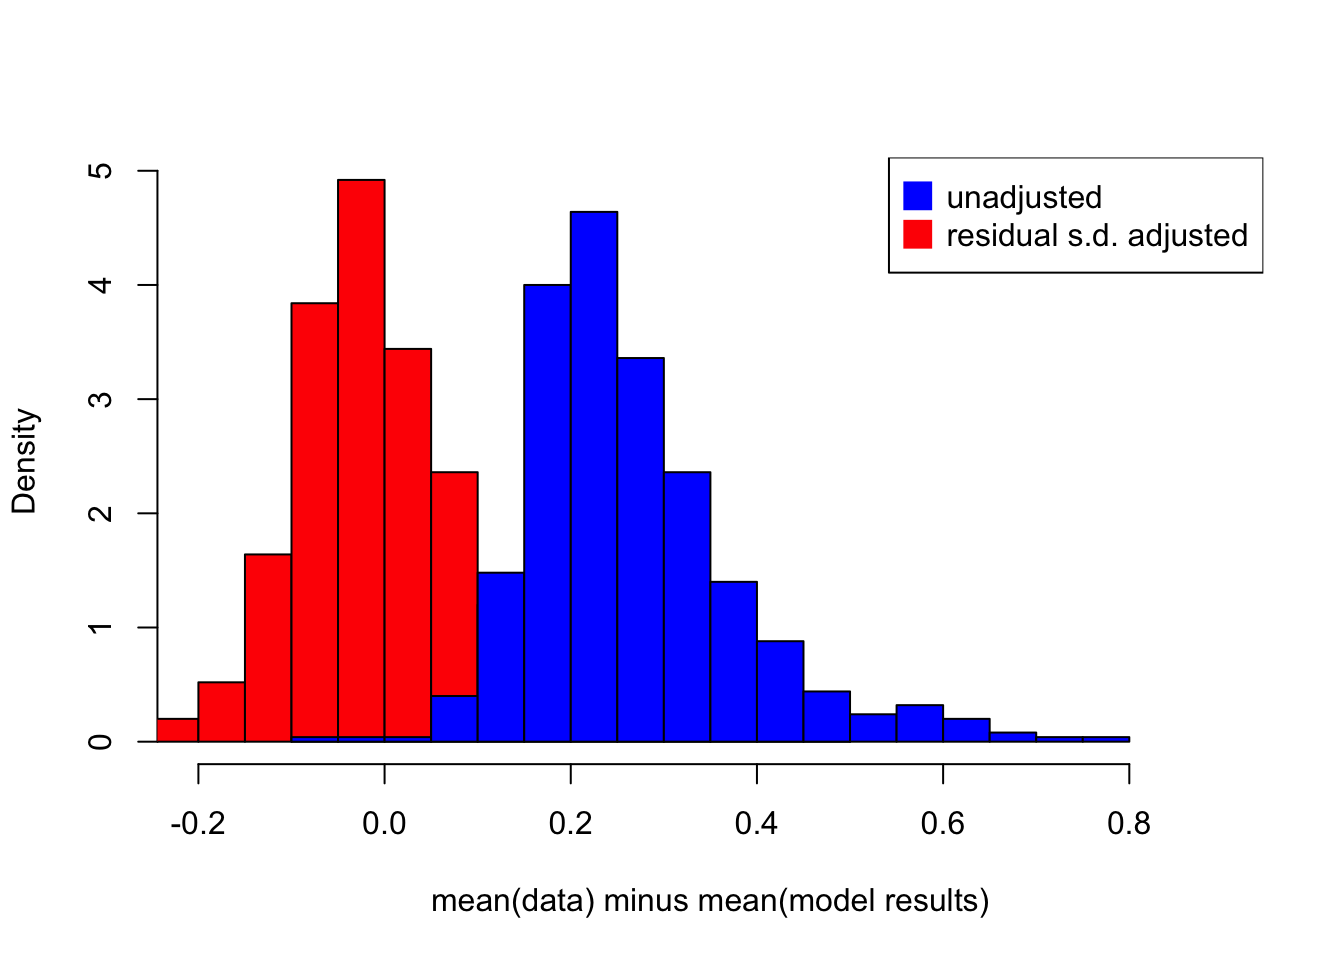
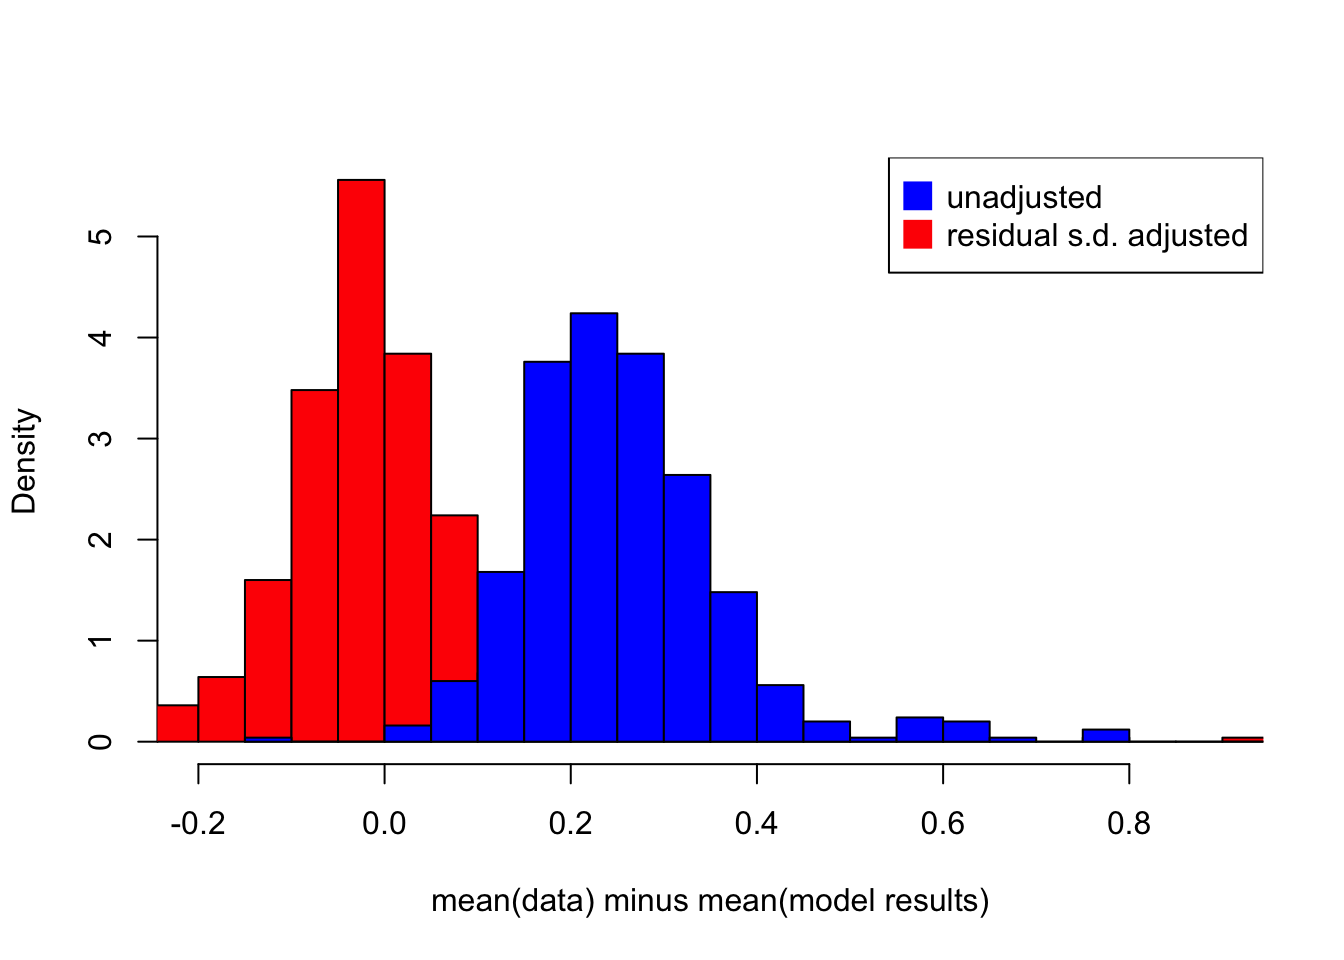
improve jensen

diff --git a/JensenIneq.html b/JensenIneq.html
@@ -474,16 +474,20 @@ legend(&#39;topright&#39;, legend = c(&#39;unadjusted&#39;,&#39;residual s.d. ad
 <h3 id="example---probabilities">Example - Probabilities</h3>
 </ins>
 </div>
+<p>Assuming a probability function follows: <span class="math display">\[ p = \frac{1}{e^{-(\alpha + x\beta + \epsilon)}} \]</span></p>
+<p>In other words, the log-odd ratio can be modelled by linear regression: <span class="math display">\[ log(\frac{p}{1-p}) = \alpha + x\beta + \epsilon \]</span></p>
+<p>Then, when we observed data p, we can transform to the log-odds ratio and perform the linear regression to estimate <span class="math inline">\(\alpha\)</span> and <span class="math inline">\(\beta\)</span>. However, the best estimates of <span class="math inline">\(\alpha\)</span> and <span class="math inline">\(\beta\)</span> will give biased estimates of the probability <span class="math inline">\(p\)</span> as:</p>
+<p><span class="math display">\[E[p] = E[\frac{1}{1+e^{-(\alpha + x\beta + \epsilon)}}] \neq \frac{1}{1+e^{-E[\alpha+x \beta+\epsilon]}}\]</span></p>
 <pre class="r"><code>library(Rlab)
 library(sqldf)
 alpha &lt;- 2
 beta &lt;- 3.5
-n = 100
+n = 150
 m = 500
 variables &lt;- data.frame(matrix(NA, nrow = n*m, ncol = 1))
 colnames(variables) &lt;- &#39;x1&#39;
 for(i in 1:n) {
-  x1 &lt;- rep(rnorm(1,0,1),n)
+  x1 &lt;- rep(rnorm(1,0,1),m)
   e &lt;- rnorm(m,0,3)
   logOdds &lt;- alpha + beta*x1+e
   variables$x1[(1+m*(i-1)):(i*m)] &lt;- x1
@@ -491,15 +495,32 @@ for(i in 1:n) {
   variables$logOdds[(1+m*(i-1)):(i*m)] &lt;- logOdds
   variables$p[(1+m*(i-1)):(i*m)] &lt;- exp(logOdds)/(1+exp(logOdds))
 }
-
 lm_logOdds &lt;- lm(logOdds~x1, data = variables)
 variables$model_p &lt;- exp(lm_logOdds$fitted.values)/(1+exp(lm_logOdds$fitted.values))
 
 groups &lt;- sqldf(&quot;select x1, avg(p), avg(model_p) from variables group by 1&quot;)
 
-plot(x = groups$x1, y = groups$`avg(p)`)
-points(x = groups$x1, y = groups$`avg(model_p)`, col = &#39;red&#39;)</code></pre>
+plot(x = groups$x1, y = groups$`avg(p)`, ylab = &quot;probability estimate&quot;, xlab=&quot;x1&quot;)
+points(x = groups$x1, y = groups$`avg(model_p)`, col = &#39;red&#39;)
+legend(x=1,y=0.2,c(&quot;E[P|X1]&quot;,&quot;1/(1+E[logOdds|X1])&quot;),cex=.8,col=c(&quot;black&quot;,&quot;red&quot;),pch=c(1,1))</code></pre>
 <p><img src="JensenIneq_files/figure-html/unnamed-chunk-2-1.png" width="672" /></p>
+<p>Now we know they are different, but how can we adjust it? For example, given the first obervation <span class="math inline">\(x_1 = c\)</span>, how do we correctly forecast the <span class="math inline">\(p\)</span> using the estimated parameters?</p>
+<p><span class="math display">\[
+\begin{aligned}
+E[P|x=c] &amp;=  E[\frac{1}{1+e^{-(\alpha + x\beta + \epsilon)}}|x=c]\\
+ &amp;= \int \frac{1}{1+e^{\alpha+\beta c + \epsilon}} \frac{1}{\sqrt{\sigma}\sqrt{2\pi}} \cdot e^{\frac{1}{2}(\frac{x}{\sqrt{\sigma}})^2} dx \\
+\end{aligned}
+\]</span></p>
+<p>To solve this analytically seems difficulty if not impossible (at least for me…). So, here I would like to do a simulation to estimate it.</p>
+<pre><code>## Given x = c = 1.04487026824233</code></pre>
+<pre><code>## E[P|x=c]: 0.953831120196396</code></pre>
+<pre><code>## 1/(1+E[logOdds|x=c]): 0.996539266519576</code></pre>
+<pre class="r"><code>sigma &lt;- sd(variables$e)
+c &lt;- variables$x1[1]
+sim_e &lt;- rnorm(1000,0,sigma)
+p_adjusted &lt;- mean(1/(1+exp(-alpha-beta*c-sim_e)))
+cat(paste0(&quot;With the estimated alpha, beta and sd(e), the probability p can estimated by simulation:&quot;,p_adjusted))</code></pre>
+<pre><code>## With the estimated alpha, beta and sd(e), the probability p can estimated by simulation:0.953910546410715</code></pre>
 <div style="background-color:white;color:blue;matrixOperation:20px;">
 <ins>
 <h3 id="example---logistic-regression">Example - Logistic Regression</h3>
@@ -584,16 +605,16 @@ plot(x = groups$x1, y = groups$`avg(model_p)`, ylim = c(0,1), xlab = &#39;x1&#39
 lines(x = groups$x1, y = groups$`avg(p)`, col = &#39;green&#39;)
 points(x = groups$x1, y = groups$`avg(E_p)`, col = &#39;red&#39;)
 points(x = groups$x1, y = groups$`avg(p_E)`, col = &#39;blue&#39;)</code></pre>
-<p><img src="JensenIneq_files/figure-html/unnamed-chunk-3-1.png" width="672" /></p>
+<p><img src="JensenIneq_files/figure-html/unnamed-chunk-6-1.png" width="672" /></p>
 <pre class="r"><code>print(glm_sim$coefficients)</code></pre>
 <pre><code>## (Intercept)          x1 
-##  -0.4501502   1.8746231</code></pre>
+##  -0.4782511   1.9337328</code></pre>
 <pre class="r"><code>plot(x = groups$x1, y = groups$`avg(model_p_f)`, ylim = c(0,1), xlab = &#39;x1&#39;, ylab = &#39;&#39;)
 lines(x = groups$x1, y = groups$`avg(p_f)`, col = &#39;brown&#39;)</code></pre>
-<p><img src="JensenIneq_files/figure-html/unnamed-chunk-4-1.png" width="672" /></p>
+<p><img src="JensenIneq_files/figure-html/unnamed-chunk-7-1.png" width="672" /></p>
 <pre class="r"><code>print(glm_sim_f$coefficients)</code></pre>
 <pre><code>## (Intercept)          x1 
-##  -0.9644351   3.9634952</code></pre>
+##   -0.997942    3.952061</code></pre>
 
 
 
